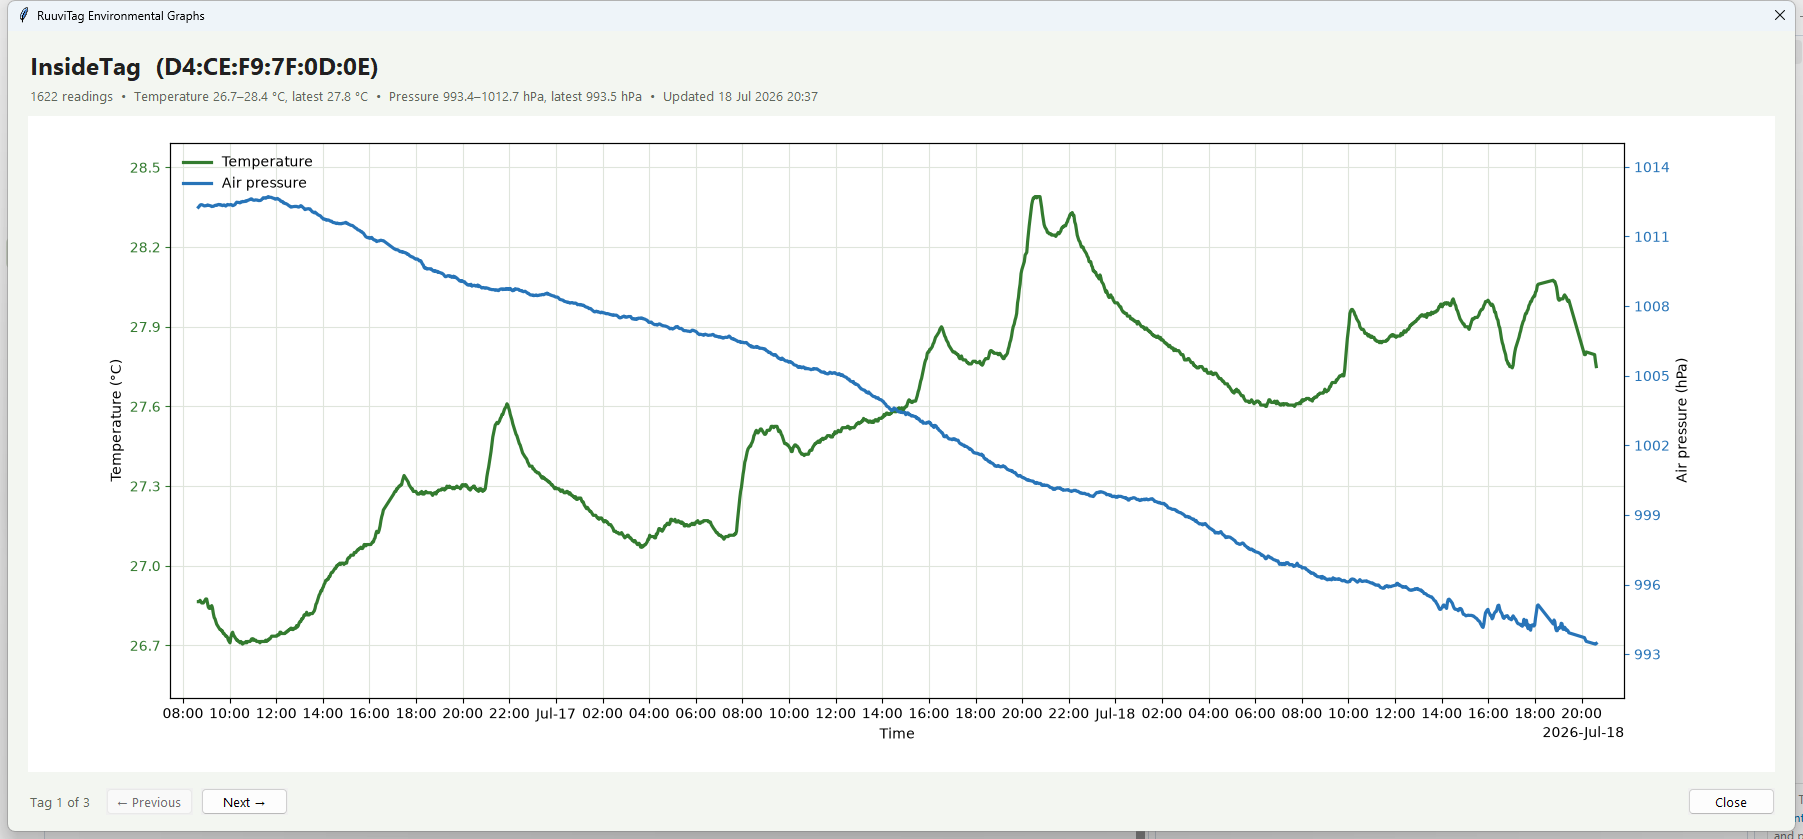
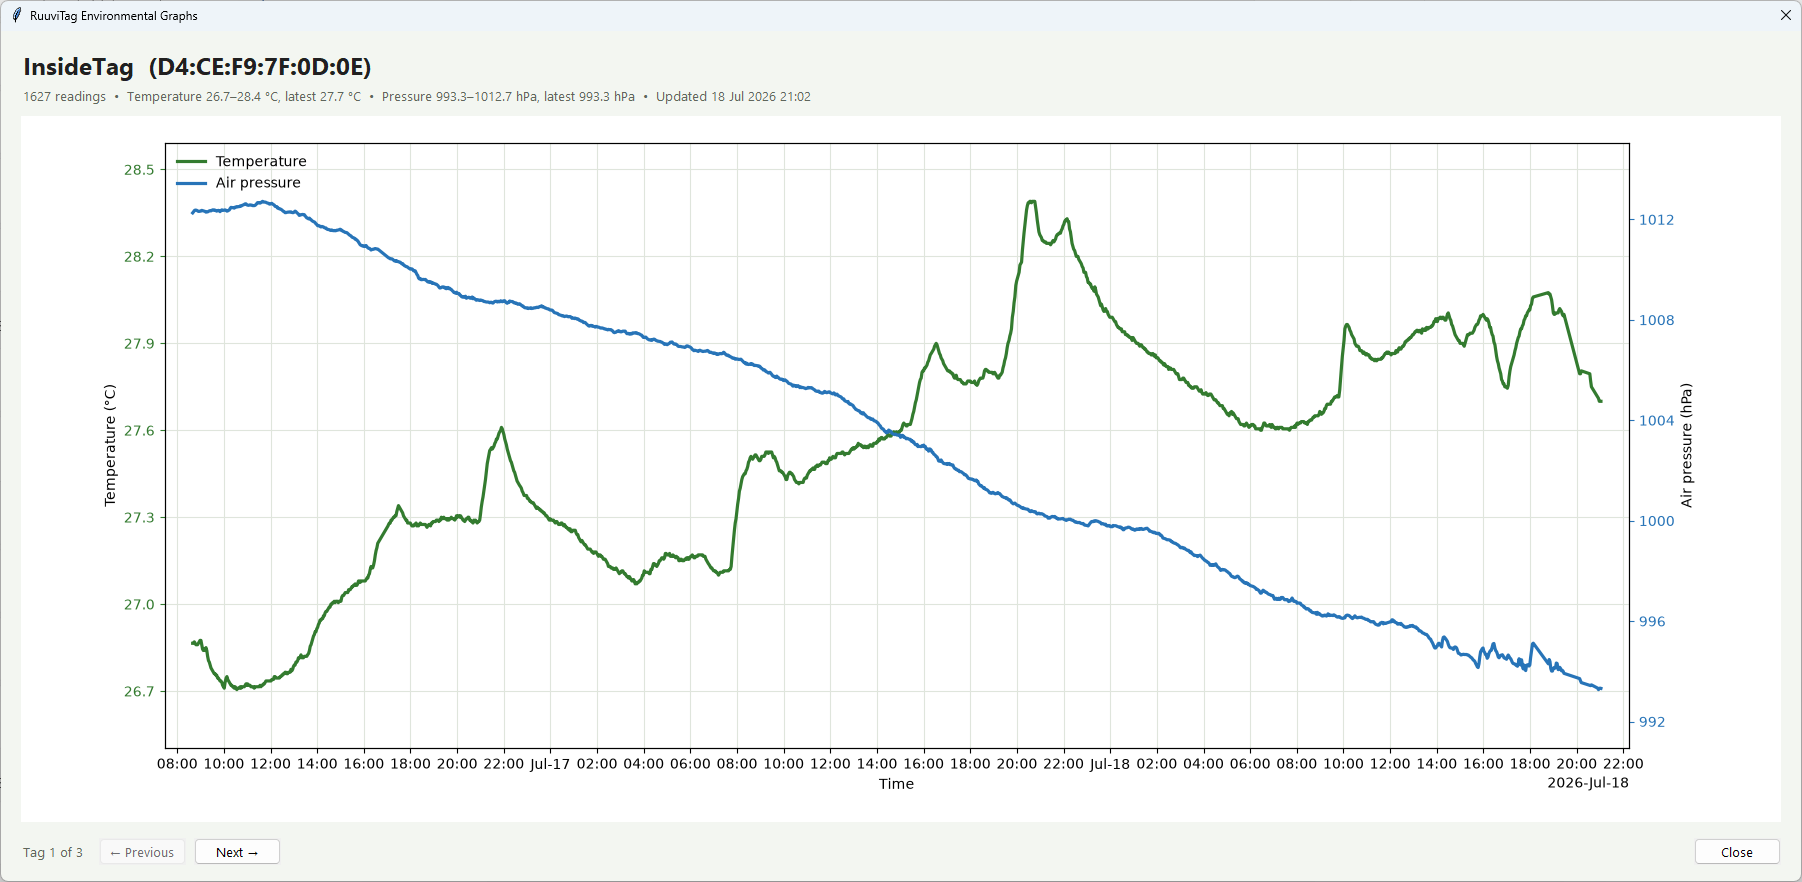
Refresh README screenshots

diff --git a/README.md b/README.md
@@ -48,6 +48,10 @@ python -m venv .venv
 
 Select **Weather** to open current conditions and scrollable hourly forecasts for today and tomorrow. Today's list begins at the current full local hour, while tomorrow always shows all 24 hours. Weather symbols make sun, cloud, rain, snow, fog, and thunderstorms easy to spot. On first use, enter a city name; the app resolves it with Open-Meteo and remembers the selected location for future runs. Use **Change location** in the Weather window whenever you want to choose another city. The selected location is stored in `%LOCALAPPDATA%\RuuviTagMonitor\weather-location.json`. No API key or Windows location permission is required.
 
+![RuuviTag local weather forecast](docs/ruuvitag-local-weather.png)
+
+*Current conditions and hourly forecasts for today and tomorrow.*
+
 ## CSV Data Collection
 
 1. Give the discovered tag a descriptive name, then press `Enter` or move focus away from the name field.

diff --git a/AGENTS.md b/AGENTS.md
@@ -18,7 +18,7 @@ Python/Tkinter desktop app for discovering nearby RuuviTag BLE advertisements an
 - A capture session keeps its initial filename across app restarts. Disabling and re-enabling collection starts a new file, with a numeric suffix when the same tag name and date already exist.
 - The Generate graphs command combines valid CSV readings by MAC address and shows one large tag graph at a time, with separate temperature/pressure axes, value summaries, Previous/Next navigation, preserved CSV local time, two-hour ticks, and a nearly full-screen default size.
 - The Weather command prompts for a city on first use, saves the resolved Open-Meteo location in `%LOCALAPPDATA%\RuuviTagMonitor\weather-location.json`, and shows symbol-enhanced hourly forecasts from the current full hour through tomorrow.
-- README screenshots are stored at `docs\ruuvitag-monitor.png` for the live monitor and `docs\ruuvitag-temperature-graphs.png` for the graph window.
+- README screenshots are stored at `docs\ruuvitag-monitor.png` for the live monitor, `docs\ruuvitag-local-weather.png` for local weather, and `docs\ruuvitag-temperature-graphs.png` for the graph window.
 
 ## Build And Run
 